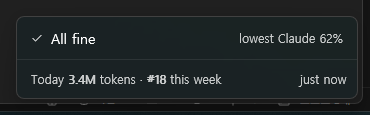
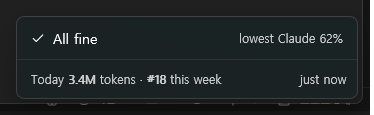
fix(hud): the check mark at the body's size, 4.80:1 on light Mica
In the primary colour at 12 px it measured 4.25:1, under the 4.5:1 every run
on the HUD is held to. The sample shots with the quiet row, again.

Changed region(s): [[0.0, 0.9652, 1.0, 0.9913], [0.0882, 0.287, 0.2647, 0.3913]]

diff --git a/app/App.xaml b/app/App.xaml
@@ -39,12 +39,13 @@
             <Style x:Key="HudCritical" TargetType="TextBlock" BasedOn="{StaticResource HudSecondary}">
                 <Setter Property="Foreground" Value="{ThemeResource SystemFillColorCriticalBrush}" />
             </Style>
-            <!-- The quiet row's check mark. Primary, not secondary: a 12 px glyph's thin
-                 strokes never reach their colour, and in secondary they measure 2.53:1 on light Mica. -->
+            <!-- The quiet row's check mark, in the primary colour at the body's size: a glyph's thin
+                 strokes never reach their colour. On light Mica it measured 2.53:1 in secondary at
+                 12 px, 4.25:1 in primary at 12 px, and 4.80:1 in primary at 14 px (scripts/check-hud.ps1). -->
             <Style x:Key="HudIcon" TargetType="TextBlock" BasedOn="{StaticResource HudSecondary}">
                 <Setter Property="Foreground" Value="{ThemeResource TextFillColorPrimaryBrush}" />
                 <Setter Property="FontFamily" Value="Segoe Fluent Icons" />
-                <Setter Property="FontSize" Value="12" />
+                <Setter Property="FontSize" Value="14" />
             </Style>
             <!-- Only for the check's calibration (scripts/check-hud.ps1): never on the HUD otherwise. -->
             <Style x:Key="HudCalibrationTertiary" TargetType="TextBlock" BasedOn="{StaticResource HudSecondary}">
